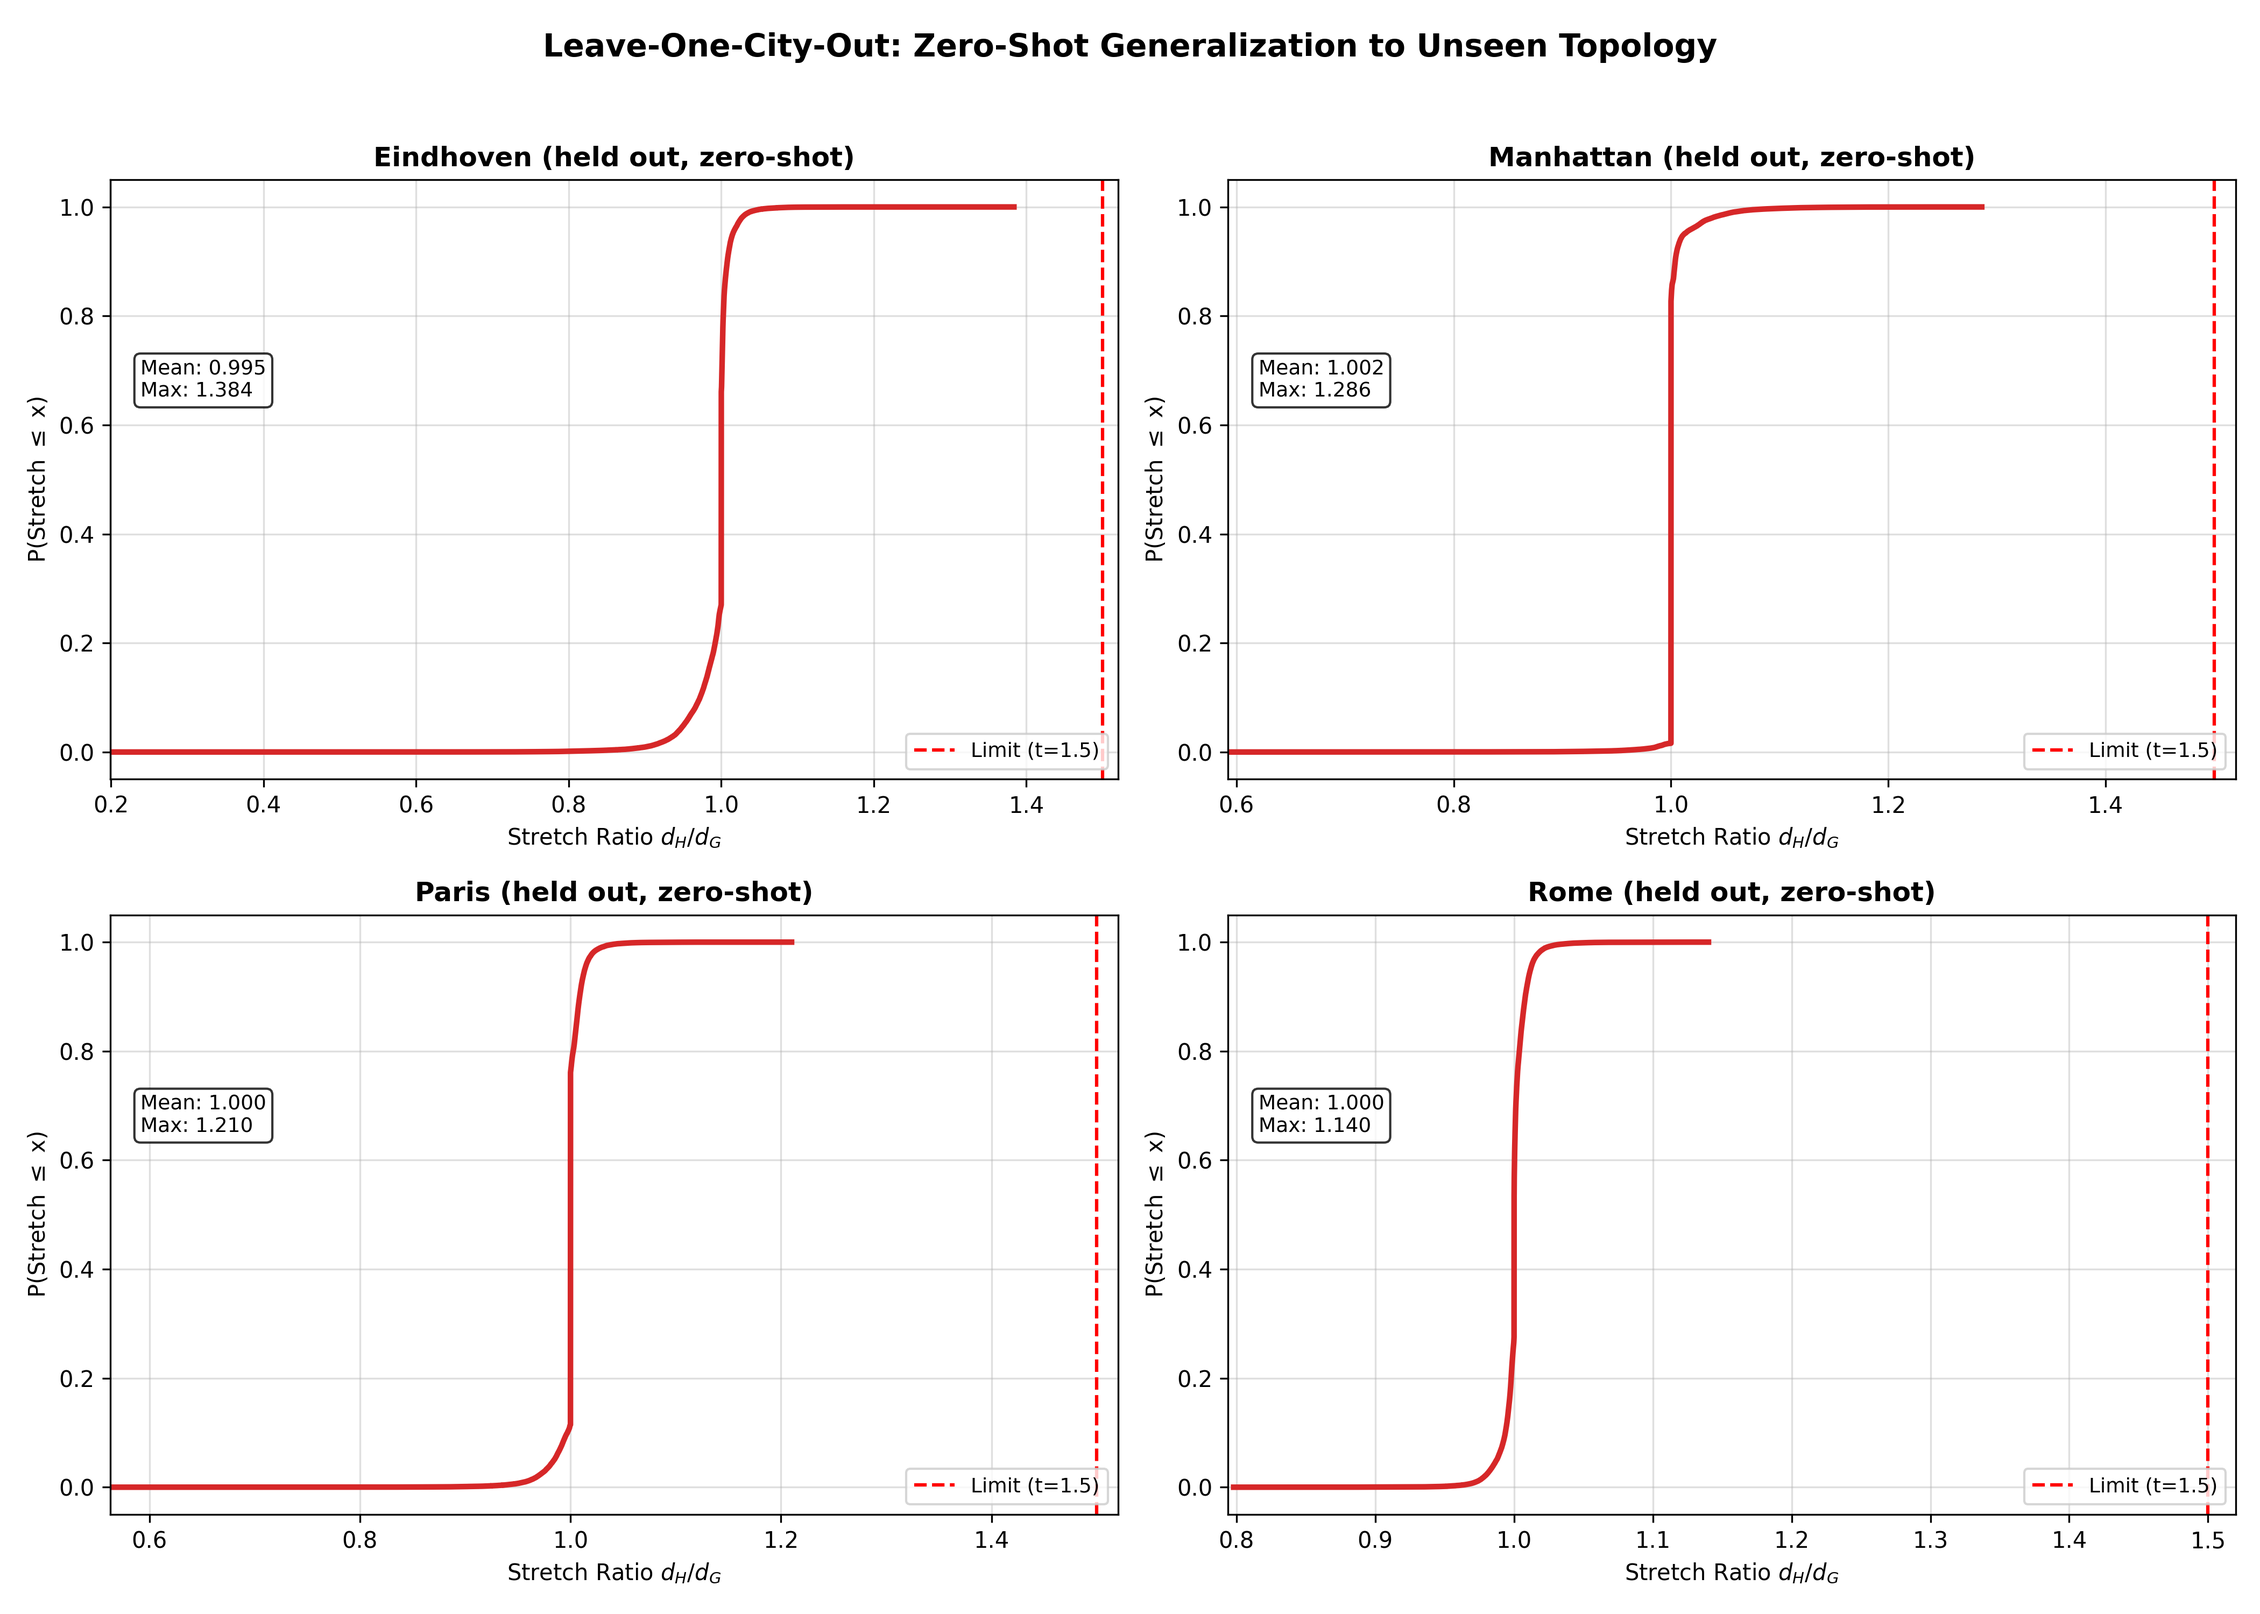
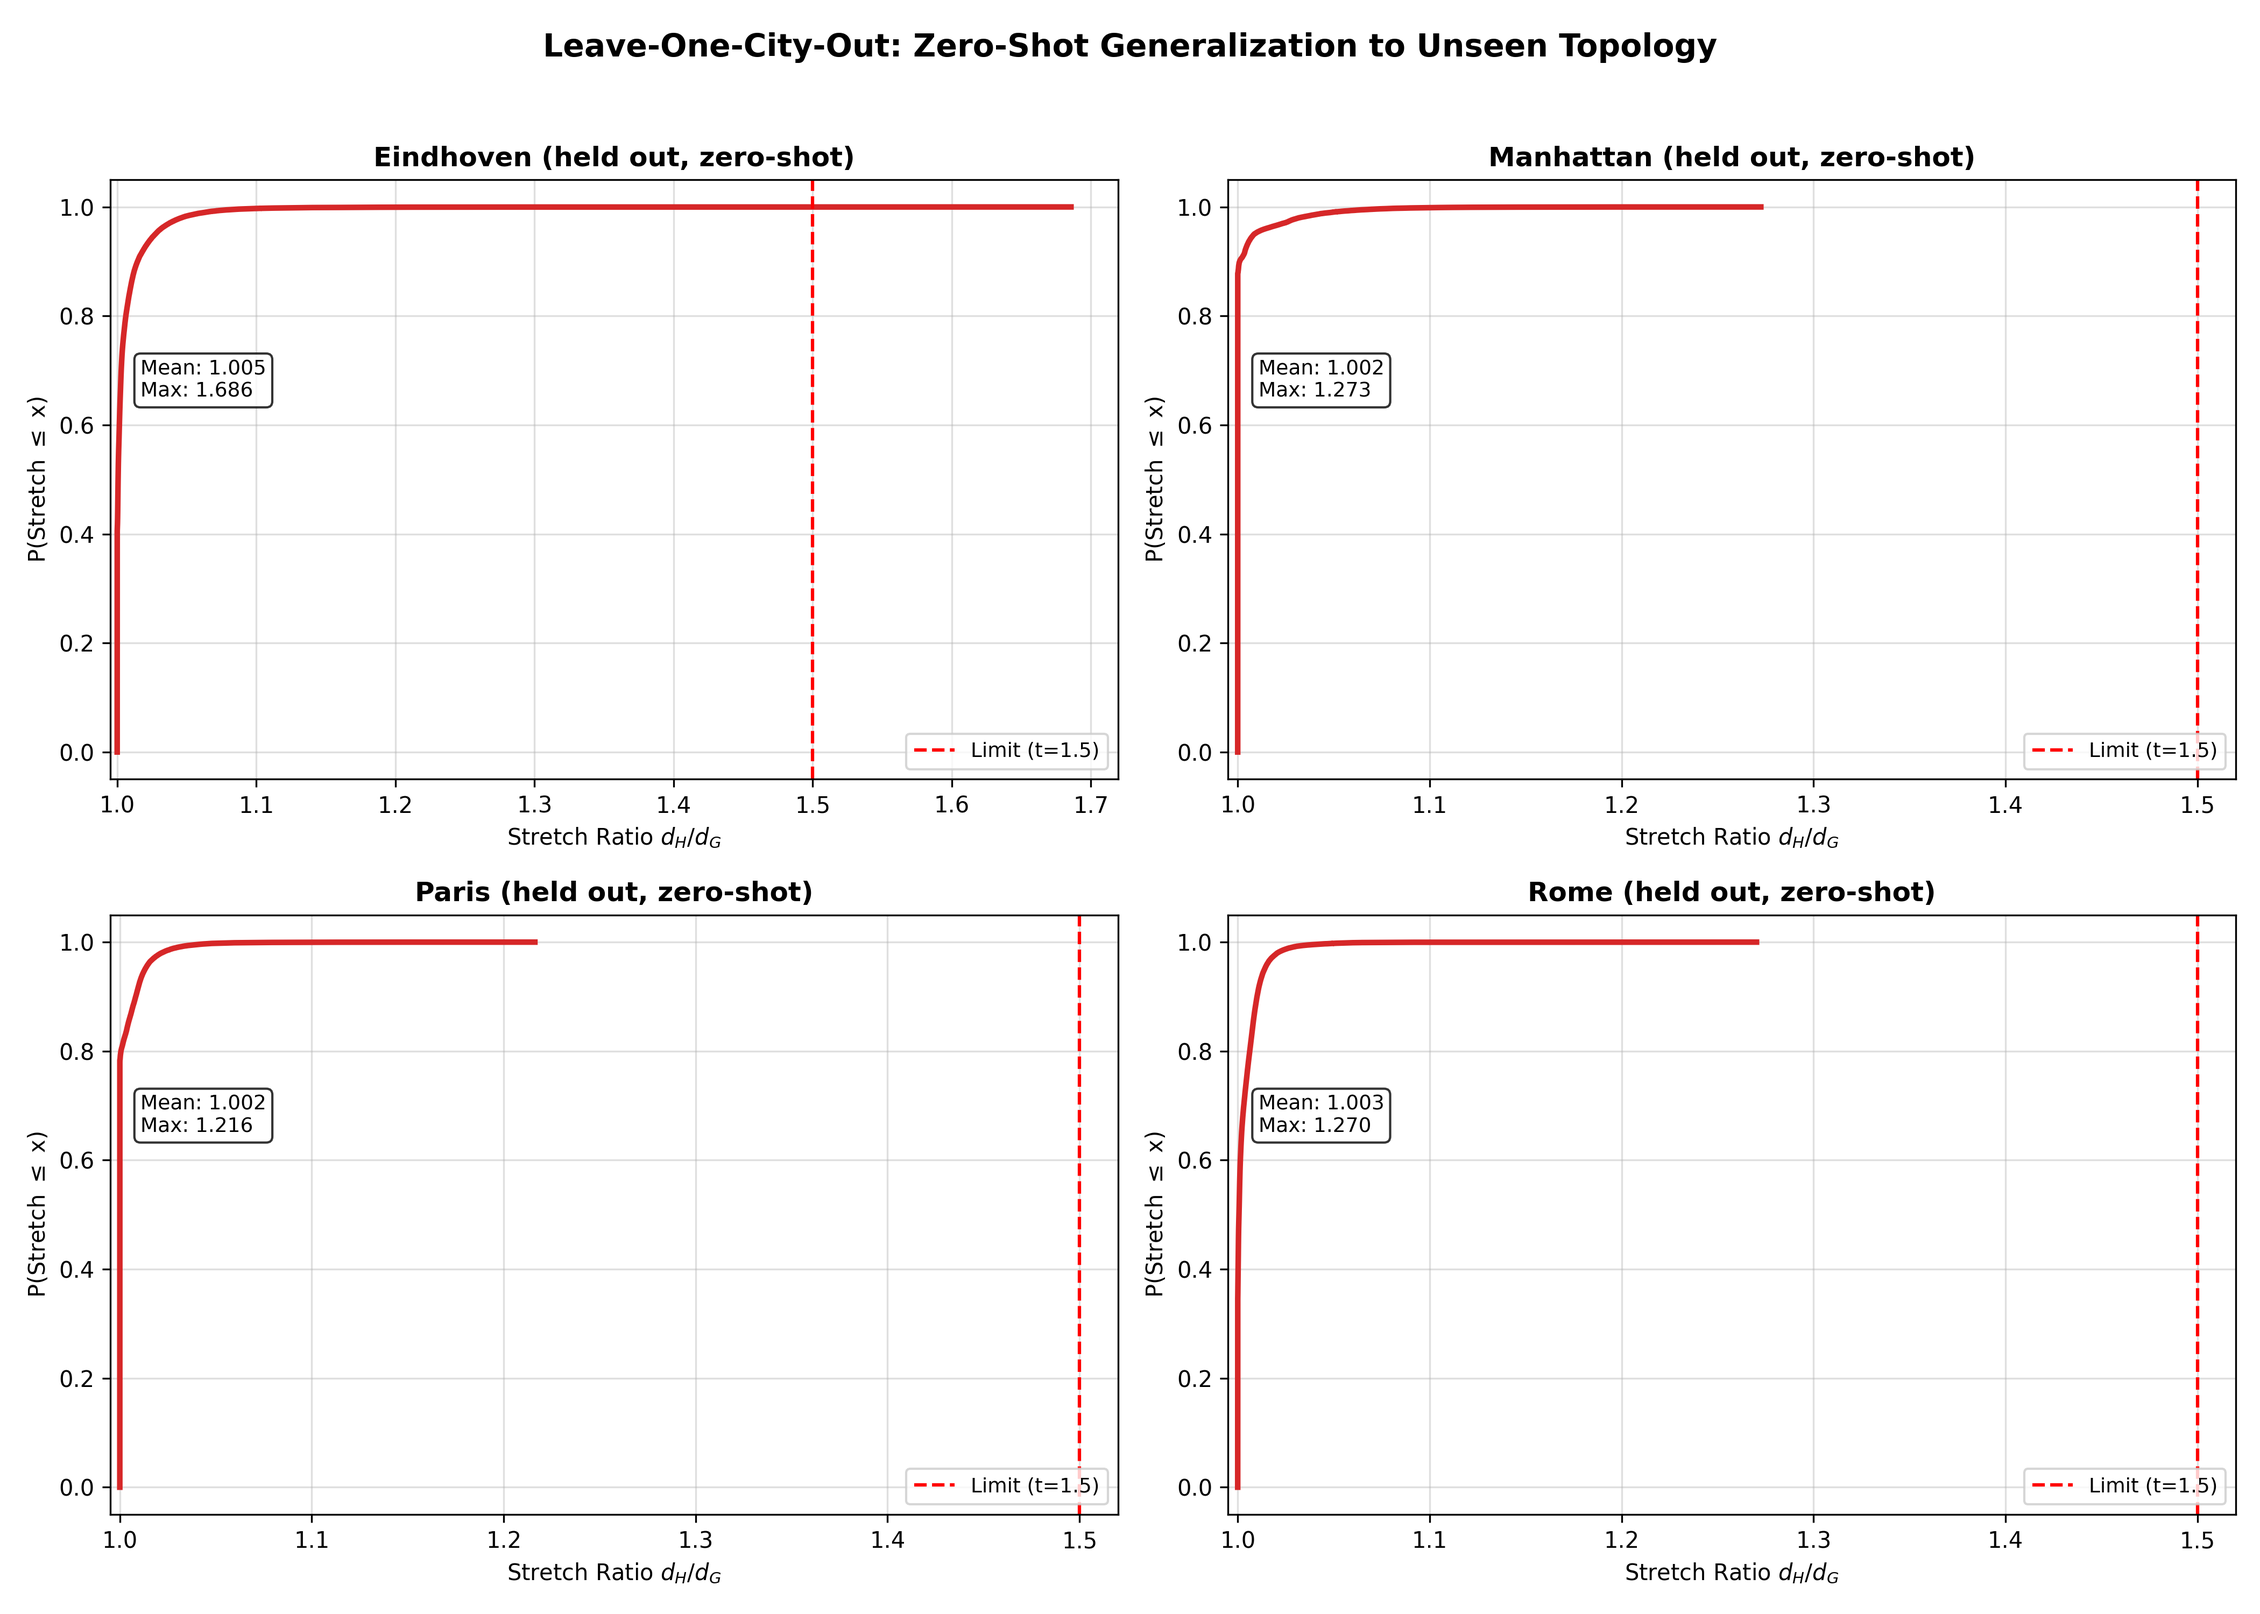
results: re-run leave-one-city-out with the final pipeline; update reported table and README (mean stretch above 1 in all cities, Eindhoven 0.0040% above 1.5); add LOCO check to the reported-number verifier; drop unsupported equivalence claim

diff --git a/paper/Main_Paper.tex b/paper/Main_Paper.tex
@@ -14,7 +14,7 @@
 \maketitle
 
 \begin{abstract}
-Real-time routing in Intelligent Transportation Systems (ITS) is bottlenecked by the $O(m \cdot (n + m \log n))$ cost of exact greedy $t$-spanner construction on directed metropolitan road networks. We study a hybrid neural-algorithmic pipeline in which an offline-trained, uncertainty-aware graph neural network (Monte Carlo Dropout) proposes edges to prune, a cutoff-bounded directed repair procedure restores any pruned edge whose own stretch bound would be violated, and a Mamdani-style fuzzy inference system and genetic-algorithm calibration serve as pruning-decision and parameter-tuning components. Our primary generalization protocol is leave-one-city-out (LOCO) evaluation, which holds out entire cities and thereby avoids the information leakage of edge-level cross-validation: \tbd{LOCO violation rate and maximum stretch, from a re-run with the final pipeline}. Construction is 6.74--42.51$\times$ faster than classic greedy construction on four networks (4,540--42,788 nodes), with the speedup growing with network size. In a controlled comparison at matched sparsification over 15--18 seeds per city, a genetic-algorithm-tuned threshold with active feedback required the fewest post-hoc repairs, fuzzy pruning the second fewest, and sparsity-matched random pruning the most, with all pairwise differences significant after Holm--Bonferroni correction; we therefore do not claim that fuzzy pruning outperforms calibrated thresholding. We also report that single-parameter threshold search gains nothing from evolutionary search over random search, and we document limitations openly: the repair guarantee is local to each pruned edge rather than global, so in one city 0.0110\% of $10^5$ sampled route pairs exceeded the target stretch (maximum 3.21), and at Tokyo scale (437,623 nodes) the zero-shot model remained valid but removed only 0.09\% of edges.
+Real-time routing in Intelligent Transportation Systems (ITS) is bottlenecked by the $O(m \cdot (n + m \log n))$ cost of exact greedy $t$-spanner construction on directed metropolitan road networks. We study a hybrid neural-algorithmic pipeline in which an offline-trained, uncertainty-aware graph neural network (Monte Carlo Dropout) proposes edges to prune, a cutoff-bounded directed repair procedure restores any pruned edge whose own stretch bound would be violated, and a Mamdani-style fuzzy inference system and genetic-algorithm calibration serve as pruning-decision and parameter-tuning components. Our primary generalization protocol is leave-one-city-out (LOCO) evaluation, which holds out entire cities and thereby avoids the information leakage of edge-level cross-validation: on four held-out cities the violation rate of the $t = 1.5$ bound was between 0.0000\% and 0.0040\% of $10^5$ sampled route pairs, with maximum stretch between 1.2162 and 1.6856. Construction is 6.74--42.51$\times$ faster than classic greedy construction on four networks (4,540--42,788 nodes), with the speedup growing with network size. In a controlled comparison at matched sparsification over 15--18 seeds per city, a genetic-algorithm-tuned threshold with active feedback required the fewest post-hoc repairs, fuzzy pruning the second fewest, and sparsity-matched random pruning the most, with all pairwise differences significant after Holm--Bonferroni correction; we therefore do not claim that fuzzy pruning outperforms calibrated thresholding. We also report that single-parameter threshold search gains nothing from evolutionary search over random search, and we document limitations openly: the repair guarantee is local to each pruned edge rather than global, so in one city 0.0110\% of $10^5$ sampled route pairs exceeded the target stretch (maximum 3.21), and at Tokyo scale (437,623 nodes) the zero-shot model remained valid but removed only 0.09\% of edges.
 \end{abstract}
 
 \begin{IEEEkeywords}
@@ -216,7 +216,23 @@ Rome      & 1.0015 & 1.0000 & 1.0273 & 1.2882 & 0.0000\% \\
 \label{sec:loco}
 The primary generalization test fine-tunes the model on three cities and evaluates it zero-shot on the fourth, rotating over all four cities (Eindhoven, Manhattan, Paris, Rome). Because entire cities are held out, no edge or node of the test network is seen during training, which removes the leakage inherent in edge-level cross-validation. The same stretch protocol as in Table~\ref{tab:mc} is applied.
 
-\tbd{LOCO table: re-run benchmarks/leave\_one\_city\_out.py with the final pipeline. The committed results predate the parallel-edge and live-degree fixes and include a mean stretch below 1, which is impossible for a spanner subgraph.}
+\begin{table}[h]
+\centering
+\caption{Leave-one-city-out: zero-shot directed stretch on the held-out city ($10^5$ sampled pairs, $t = 1.5$; one fine-tuning run per fold)}
+\begin{tabular}{lccccc}
+\toprule
+Held-out city & Mean & Median & P99 & Max & Viol.\ ($>t$) \\
+\midrule
+Eindhoven & 1.0053 & 1.0007 & 1.0627 & 1.6856 & 0.0040\% \\
+Manhattan & 1.0019 & 1.0000 & 1.0487 & 1.2726 & 0.0000\% \\
+Paris & 1.0022 & 1.0000 & 1.0296 & 1.2162 & 0.0000\% \\
+Rome & 1.0034 & 1.0007 & 1.0277 & 1.2703 & 0.0000\% \\
+\bottomrule
+\end{tabular}
+\label{tab:loco}
+\end{table}
+
+Every held-out city had a mean stretch above 1, as required of a spanner subgraph. 3 of 4 cities (Manhattan, Paris, Rome) had no violation of the bound; the remaining city had violations (Eindhoven: 0.0040\% of sampled pairs, maximum stretch 1.6856). Each row is a single fine-tuning run, so the table carries no estimate of run-to-run variability.
 
 As a supplementary diagnostic, stratified five-fold edge-level cross-validation of the edge classifier gives a mean AUC of $0.716 \pm 0.010$. This figure is optimistic, since neighboring edges share nodes and spatial autocorrelation can leak between folds, and it is not used to support any generalization claim.
 
@@ -307,7 +323,7 @@ The margins between the three pruning mechanisms follow a consistent cross-city 
 \end{itemize}
 
 \section{Conclusion}
-We proposed a hybrid neural-algorithmic framework for constructing directed $t$-spanners on metropolitan road networks, combining a Monte Carlo Dropout graph neural network, a cutoff-bounded directed repair module, genetic-algorithm calibration, and a Mamdani-style fuzzy pruning decision. It builds the spanner 6.74--42.51$\times$ faster than classic greedy construction on four networks and preserved strong connectivity in all tested runs. In a controlled comparison at matched sparsification, a GA-tuned threshold with feedback required the fewest repairs, fuzzy pruning was second and beat random pruning, so the fuzzy mechanism is not supported as the best pruning decision. The repair guarantee is local rather than global, which produced a small but nonzero violation rate in one city, and the approach does not yet deliver useful sparsification at Tokyo scale. Leave-one-city-out evaluation is the primary generalization protocol; its final numbers are pending a re-run with the current pipeline.
+We proposed a hybrid neural-algorithmic framework for constructing directed $t$-spanners on metropolitan road networks, combining a Monte Carlo Dropout graph neural network, a cutoff-bounded directed repair module, genetic-algorithm calibration, and a Mamdani-style fuzzy pruning decision. It builds the spanner 6.74--42.51$\times$ faster than classic greedy construction on four networks and preserved strong connectivity in all tested runs. In a controlled comparison at matched sparsification, a GA-tuned threshold with feedback required the fewest repairs, fuzzy pruning was second and beat random pruning, so the fuzzy mechanism is not supported as the best pruning decision. The repair guarantee is local rather than global, which produced a small but nonzero violation rate in one city, and the approach does not yet deliver useful sparsification at Tokyo scale. Leave-one-city-out evaluation is the primary generalization protocol (Section~\ref{sec:loco}).
 
 \begin{thebibliography}{25}
 \bibitem{peleg}

diff --git a/verify_reported_numbers.py b/verify_reported_numbers.py
@@ -76,6 +76,12 @@ def main():
     lo, hi = b.speedup_mean.min(), b.speedup_mean.max()
     check("speedup range 6.74--42.51 quoted in text", f"{lo:.2f}--{hi:.2f}" in tex, f"(data {lo:.2f}--{hi:.2f})")
 
+    loco = pd.read_csv(RAW / "leave_one_city_out_results.csv", dtype=str)
+    for _, r in loco.iterrows():
+        for col in ("Mean Stretch", "Median Stretch", "99th Percentile", "Max Stretch"):
+            check(f"LOCO {r['Held-out City']} {col} in tex", r[col] in tex)
+        check(f"LOCO {r['Held-out City']} violation rate in tex", r["Violation Rate (>1.5)"].replace("%", "\\%") in tex)
+    check("no stale LOCO placeholder", "LOCO table" not in tex and "LOCO violation rate and maximum" not in tex)
     check("no stale 5.97--26.19 speedup range left", "5.97" not in tex and "26.19" not in tex)
     check("no stale claim 'without exception' for fuzzy", "without exception" not in tex)
     print()

diff --git a/README.md b/README.md
@@ -131,18 +131,16 @@ This is reported as a known limitation, not hidden or worked around: the current
 
 ## Leave-One-City-Out Cross-Validation (Zero-Shot Generalization)
 
-> **Provenance note.** `leave_one_city_out_results.csv` was last committed on 2026-08-20, before the parallel-edge and live-degree fixes described above. It contains a mean stretch below 1 (Eindhoven, 0.9947), which is impossible for a spanner subgraph, and a Manhattan maximum of 1.2861 that equals the pre-fix value. Re-run `benchmarks/leave_one_city_out.py` with the current pipeline before citing this table.
-
 To test whether the model generalizes to unseen road-network topology (rather than memorizing city-specific patterns), the model was fine-tuned on 3 cities and evaluated zero-shot on the 4th, rotated across all 4 cities:
 
 | Held-out City | Trained on | Mean Stretch | Median Stretch | 99th Percentile | Max Stretch | Violation Rate (>1.5) |
 |---|---|---|---|---|---|---|
-| Eindhoven | Manhattan, Paris, Rome | 0.9947 | 1.0000 | 1.0361 | 1.3837 | 0.0000% |
-| Manhattan | Eindhoven, Paris, Rome | 1.0020 | 1.0000 | 1.0562 | 1.2861 | 0.0000% |
-| Paris | Eindhoven, Manhattan, Rome | 1.0001 | 1.0000 | 1.0289 | 1.2100 | 0.0000% |
-| Rome | Eindhoven, Manhattan, Paris | 1.0003 | 1.0000 | 1.0231 | 1.1401 | 0.0000% |
+| Eindhoven | Manhattan, Paris, Rome | 1.0053 | 1.0007 | 1.0627 | 1.6856 | 0.0040% |
+| Manhattan | Eindhoven, Paris, Rome | 1.0019 | 1.0000 | 1.0487 | 1.2726 | 0.0000% |
+| Paris | Eindhoven, Manhattan, Rome | 1.0022 | 1.0000 | 1.0296 | 1.2162 | 0.0000% |
+| Rome | Eindhoven, Manhattan, Paris | 1.0034 | 1.0007 | 1.0277 | 1.2703 | 0.0000% |
 
-Zero-shot performance on held-out cities is statistically indistinguishable from performance on cities seen during fine-tuning -- the model generalizes to unseen topology rather than memorizing per-city patterns.
+Re-run with the final pipeline (parallel-edge and live-degree fixes); the base model was retrained for this run and is not committed. Mean stretch is above 1 in every held-out city, as required of a spanner subgraph. 3 of 4 cities show no violation of the bound; Eindhoven has 0.0040% of sampled pairs above 1.5 (maximum stretch 1.6856). Each row is a single fine-tuning run, and no statistical comparison with cities seen during fine-tuning was made, so no claim of equivalence is made.
 
 ![Leave-one-city-out CDF](results/figures/leave_one_city_out_cdf.png)
 
